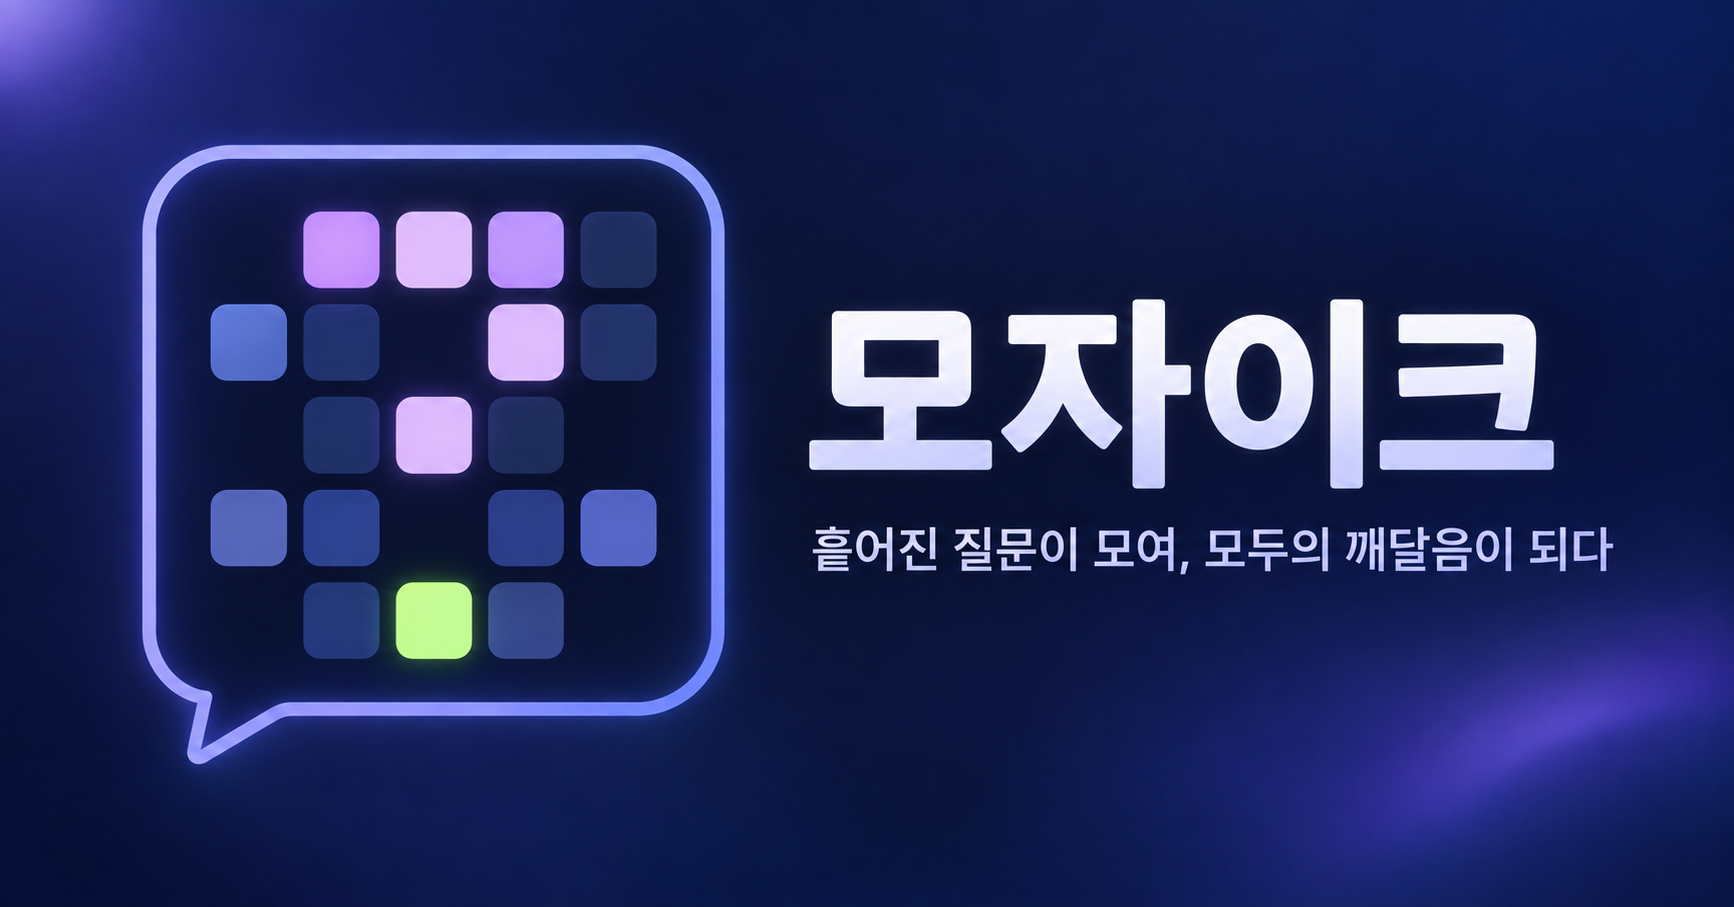
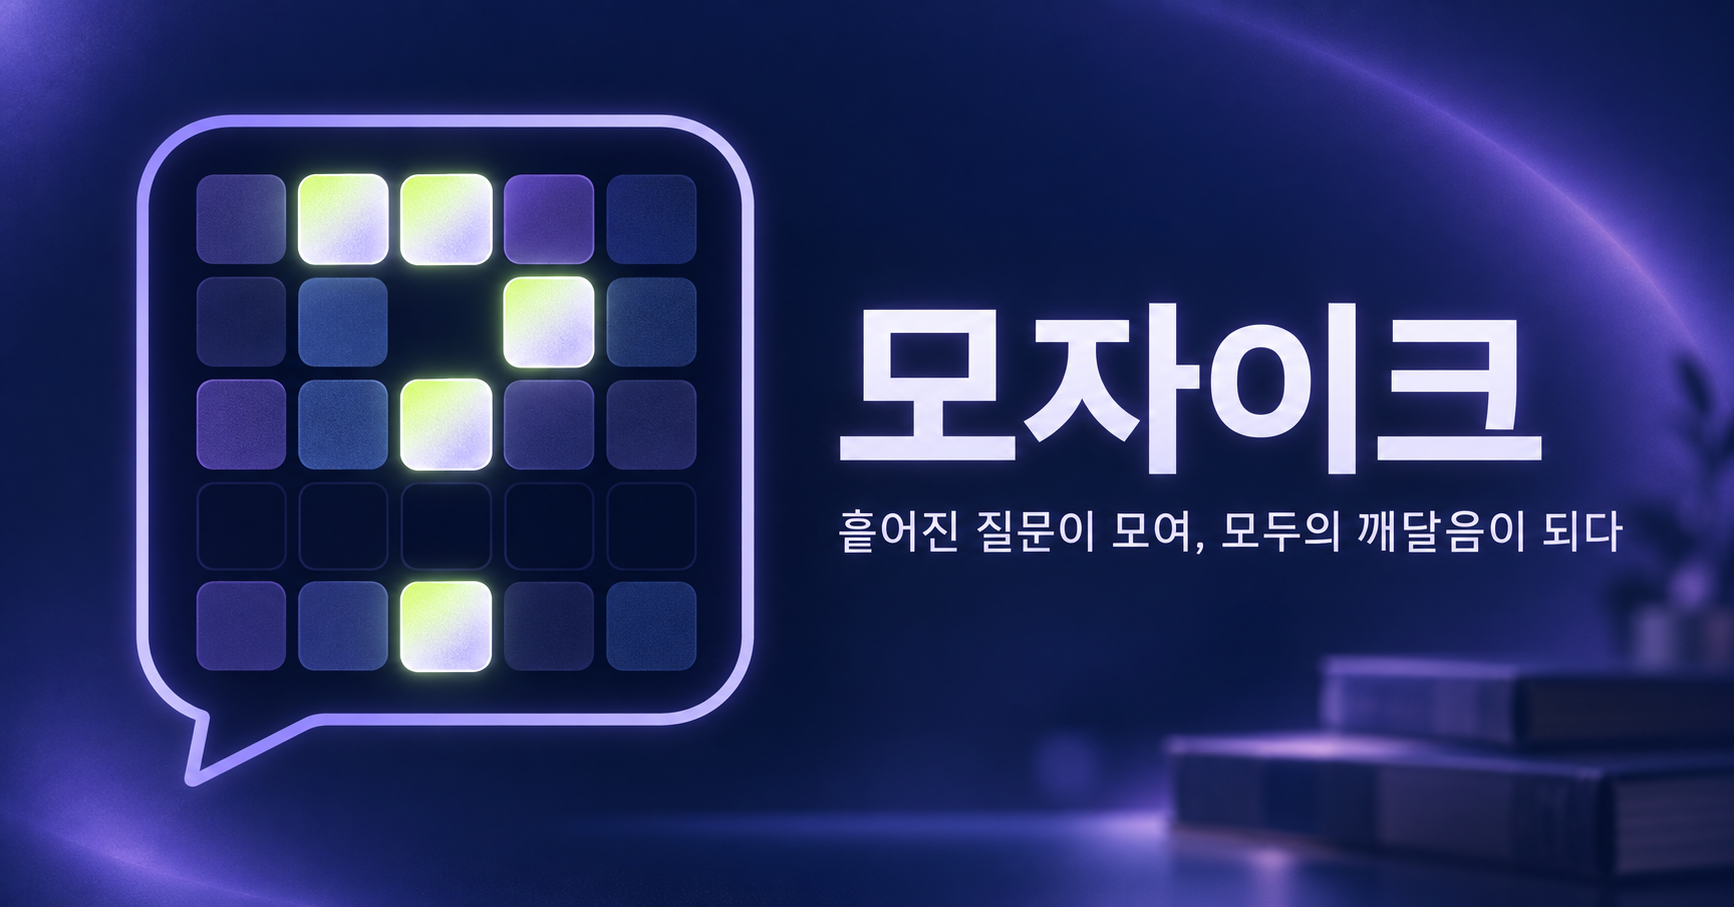
Emphasize Mosaic question mark tiles

diff --git a/components/qsignal/MosaicMark.tsx b/components/qsignal/MosaicMark.tsx
@@ -1,9 +1,9 @@
 const tiles = [
-  { x: 15, y: 8, tone: 'lavender' }, { x: 21, y: 8, tone: 'lavender', glow: true }, { x: 27, y: 8, tone: 'lime', glow: true }, { x: 33, y: 8, tone: 'blue' },
-  { x: 9, y: 14, tone: 'indigo' }, { x: 15, y: 14, tone: 'blue' }, { x: 27, y: 14, tone: 'lime', glow: true }, { x: 33, y: 14, tone: 'indigo' },
-  { x: 15, y: 20, tone: 'blue' }, { x: 21, y: 20, tone: 'lavender', glow: true }, { x: 27, y: 20, tone: 'indigo' },
+  { x: 15, y: 8, tone: 'lavender', glow: true, question: true }, { x: 21, y: 8, tone: 'lime', glow: true, question: true }, { x: 27, y: 8, tone: 'lavender', glow: true, question: true }, { x: 33, y: 8, tone: 'blue' },
+  { x: 9, y: 14, tone: 'indigo' }, { x: 15, y: 14, tone: 'blue' }, { x: 27, y: 14, tone: 'lime', glow: true, question: true }, { x: 33, y: 14, tone: 'indigo' },
+  { x: 15, y: 20, tone: 'blue' }, { x: 21, y: 20, tone: 'lavender', glow: true, question: true }, { x: 27, y: 20, tone: 'indigo' },
   { x: 9, y: 26, tone: 'indigo' }, { x: 15, y: 26, tone: 'blue' }, { x: 27, y: 26, tone: 'blue' }, { x: 33, y: 26, tone: 'indigo' },
-  { x: 15, y: 32, tone: 'indigo' }, { x: 21, y: 32, tone: 'lime', glow: true }, { x: 27, y: 32, tone: 'lavender' },
+  { x: 15, y: 32, tone: 'indigo' }, { x: 21, y: 32, tone: 'lime', glow: true, question: true }, { x: 27, y: 32, tone: 'blue' },
 ];
 
 export function MosaicMark() {
@@ -18,7 +18,7 @@ export function MosaicMark() {
       <path className="mosaic-mark__bubble" d="M7.5 5.5h33A4.5 4.5 0 0 1 45 10v25.5a4.5 4.5 0 0 1-4.5 4.5H28l-7.5 3v-3H7.5A4.5 4.5 0 0 1 3 35.5V10a4.5 4.5 0 0 1 4.5-4.5Z" />
       {tiles.map((tile) => (
         <rect
-          className={`mosaic-mark__tile mosaic-mark__tile--${tile.tone}`}
+          className={`mosaic-mark__tile mosaic-mark__tile--${tile.tone}${tile.question ? ' mosaic-mark__tile--question' : ''}`}
           filter={tile.glow ? 'url(#mosaic-mark-glow)' : undefined}
           height="5"
           key={`${tile.x}-${tile.y}`}

diff --git a/app/qsignal-night.css b/app/qsignal-night.css
@@ -80,11 +80,12 @@ body {
   stroke-width: 1.1;
 }
 
-.mosaic-mark__tile--indigo { fill: #5c6399; }
-.mosaic-mark__tile--lavender { fill: #b7a9ee; }
-.mosaic-mark__tile--blue { fill: #8eb4ff; }
+.mosaic-mark__tile--indigo { fill: #454d7c; }
+.mosaic-mark__tile--lavender { fill: #d5ccff; }
+.mosaic-mark__tile--blue { fill: #6179ad; }
 .mosaic-mark__tile--lime { fill: var(--night-lime); }
 .mosaic-mark__tile--coral { fill: var(--night-coral); }
+.mosaic-mark__tile--question { stroke: #fbfaff; stroke-width: .58; }
 
 .brand-copy strong {
   color: var(--night-text);
